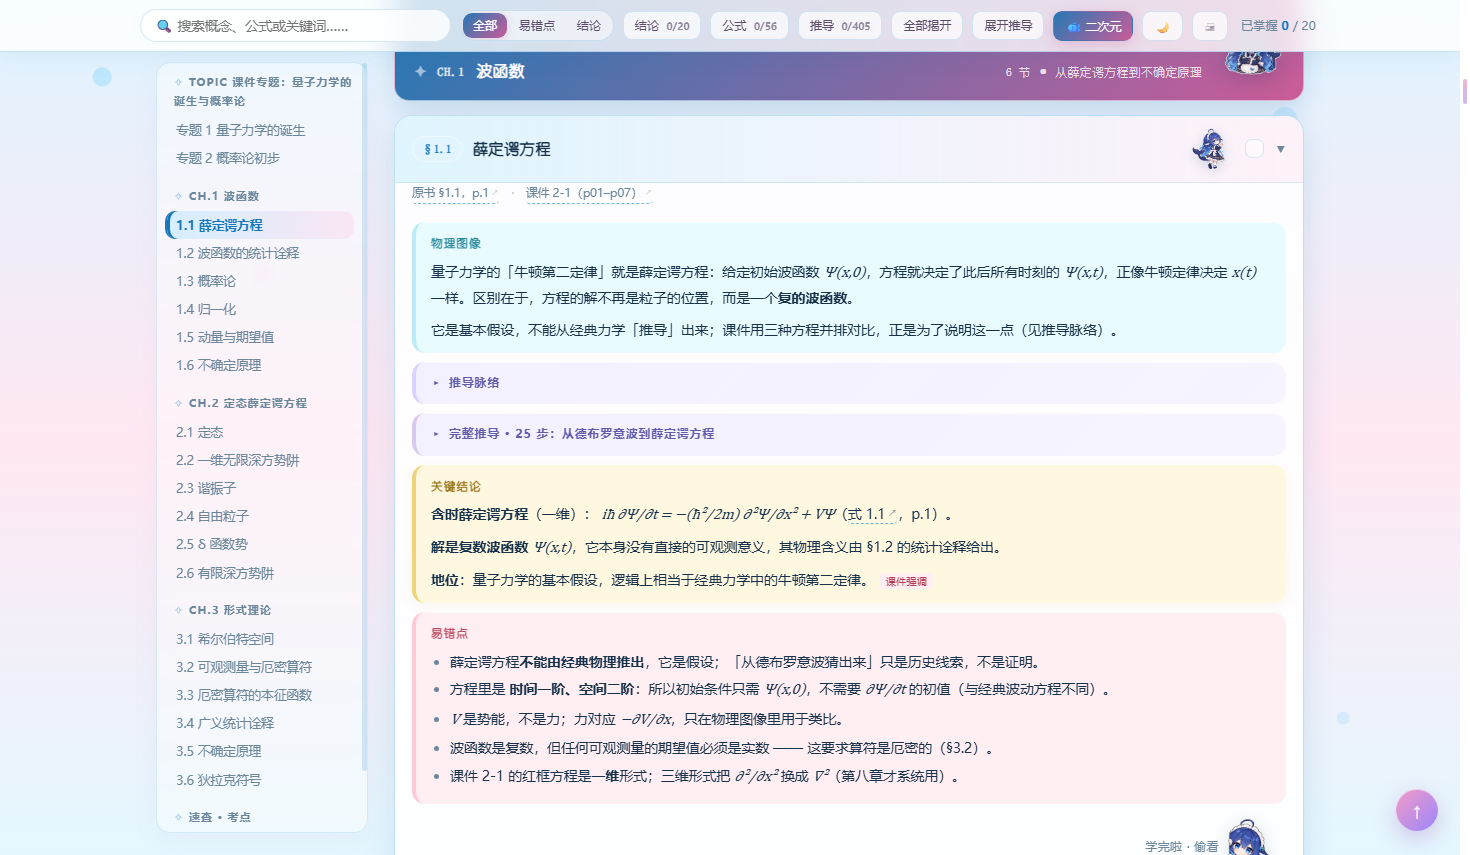
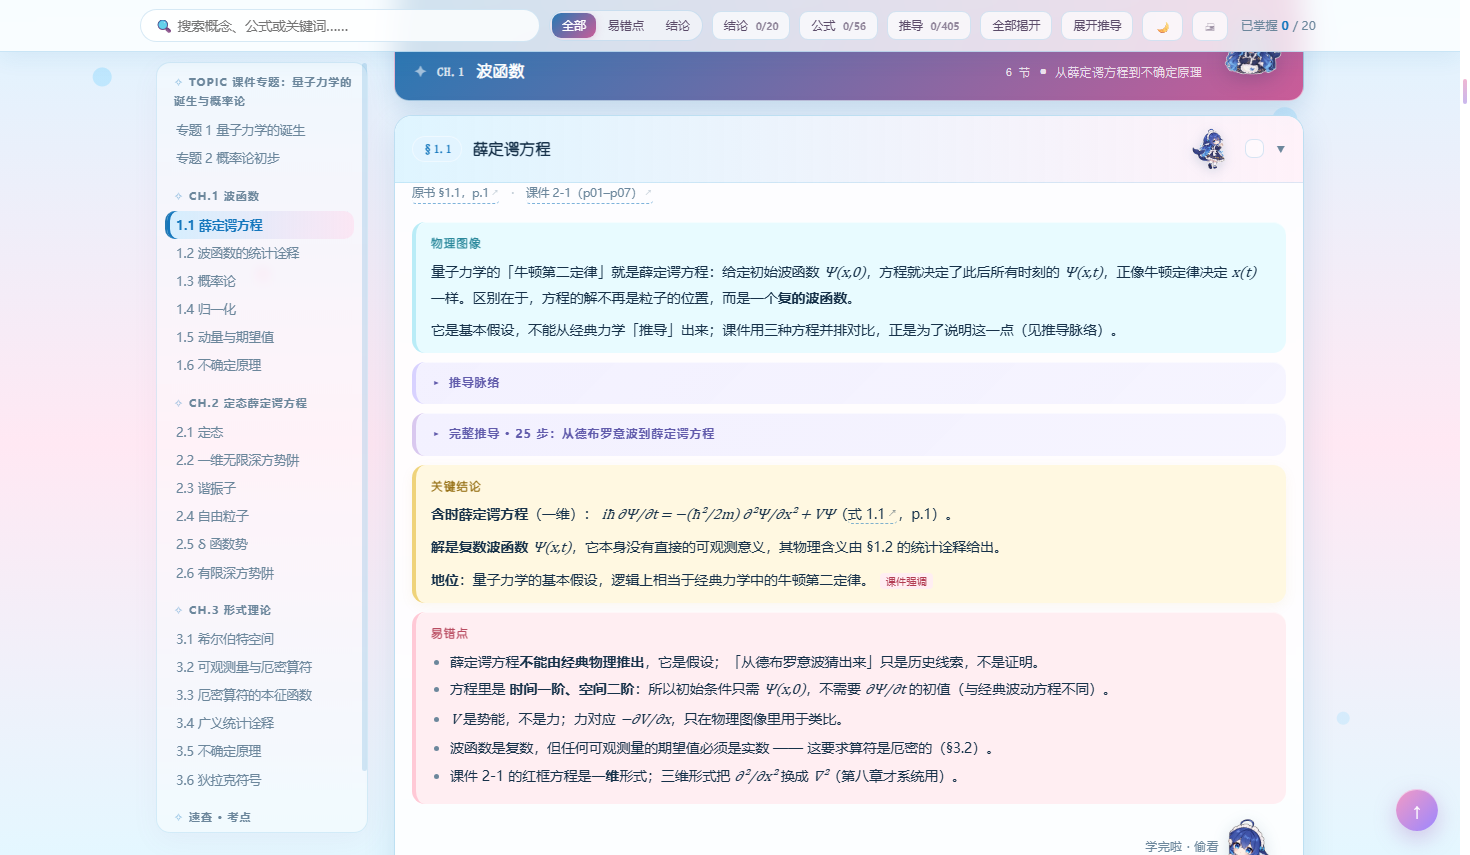
fix: remove anime theme toggle

diff --git a/docs/app/renderer/outline_qm.html b/docs/app/renderer/outline_qm.html
@@ -1264,7 +1264,6 @@ body:not(.anime) .mascot-lightbox { display:none !important; }
     <button class="btn maskbtn" id="bMaskS" onclick="toggleMaskMode('step')" title="遮住/揭示推导步骤（快捷键 R）">推导 <b>0/0</b></button>
     <button class="btn" id="bMaskAll" onclick="revealAllMasks()" title="全部揭开">全部揭开</button>
     <button class="btn" id="bFold" onclick="toggleAllDeriv()" title="展开/收起所有推导">展开推导</button>
-    <button class="btn" id="bAnime" onclick="toggleAnime()" title="开关二次元主题与表情包">🐟 二次元</button>
     <button class="btn" onclick="toggleDark()" title="切换深色模式（快捷键 D）">🌙</button>
     <button class="btn" onclick="window.print()" title="打印 / 导出 PDF">🖨</button>
     <span class="prog" id="prog"></span>
@@ -7751,22 +7750,6 @@ applyFilter();
     if (e.target === lb) closeLightbox();
   });
 
-  /* 二次元主题开关 */
-  const THEME_KEY = 'outline.anime.v1';
-  function applyTheme(on) {
-    document.body.classList.toggle('anime', on);
-    const btn = document.getElementById('bAnime');
-    if (btn) btn.classList.toggle('on', on);
-  }
-  try {
-    if (localStorage.getItem(THEME_KEY) === '0') applyTheme(false);
-    else applyTheme(true);
-  } catch (err) { applyTheme(true); }
-  window.toggleAnime = function () {
-    const on = !document.body.classList.contains('anime');
-    applyTheme(on);
-    try { localStorage.setItem(THEME_KEY, on ? '1' : '0'); } catch (err) {}
-  };
 })();
 
 </script>

diff --git a/发布/网页版/app/renderer/outline_qm.html b/发布/网页版/app/renderer/outline_qm.html
@@ -1264,7 +1264,6 @@ body:not(.anime) .mascot-lightbox { display:none !important; }
     <button class="btn maskbtn" id="bMaskS" onclick="toggleMaskMode('step')" title="遮住/揭示推导步骤（快捷键 R）">推导 <b>0/0</b></button>
     <button class="btn" id="bMaskAll" onclick="revealAllMasks()" title="全部揭开">全部揭开</button>
     <button class="btn" id="bFold" onclick="toggleAllDeriv()" title="展开/收起所有推导">展开推导</button>
-    <button class="btn" id="bAnime" onclick="toggleAnime()" title="开关二次元主题与表情包">🐟 二次元</button>
     <button class="btn" onclick="toggleDark()" title="切换深色模式（快捷键 D）">🌙</button>
     <button class="btn" onclick="window.print()" title="打印 / 导出 PDF">🖨</button>
     <span class="prog" id="prog"></span>
@@ -7751,22 +7750,6 @@ applyFilter();
     if (e.target === lb) closeLightbox();
   });
 
-  /* 二次元主题开关 */
-  const THEME_KEY = 'outline.anime.v1';
-  function applyTheme(on) {
-    document.body.classList.toggle('anime', on);
-    const btn = document.getElementById('bAnime');
-    if (btn) btn.classList.toggle('on', on);
-  }
-  try {
-    if (localStorage.getItem(THEME_KEY) === '0') applyTheme(false);
-    else applyTheme(true);
-  } catch (err) { applyTheme(true); }
-  window.toggleAnime = function () {
-    const on = !document.body.classList.contains('anime');
-    applyTheme(on);
-    try { localStorage.setItem(THEME_KEY, on ? '1' : '0'); } catch (err) {}
-  };
 })();
 
 </script>

diff --git a/程序/resources/app/renderer/outline_qm.html b/程序/resources/app/renderer/outline_qm.html
@@ -1264,7 +1264,6 @@ body:not(.anime) .mascot-lightbox { display:none !important; }
     <button class="btn maskbtn" id="bMaskS" onclick="toggleMaskMode('step')" title="遮住/揭示推导步骤（快捷键 R）">推导 <b>0/0</b></button>
     <button class="btn" id="bMaskAll" onclick="revealAllMasks()" title="全部揭开">全部揭开</button>
     <button class="btn" id="bFold" onclick="toggleAllDeriv()" title="展开/收起所有推导">展开推导</button>
-    <button class="btn" id="bAnime" onclick="toggleAnime()" title="开关二次元主题与表情包">🐟 二次元</button>
     <button class="btn" onclick="toggleDark()" title="切换深色模式（快捷键 D）">🌙</button>
     <button class="btn" onclick="window.print()" title="打印 / 导出 PDF">🖨</button>
     <span class="prog" id="prog"></span>
@@ -7751,22 +7750,6 @@ applyFilter();
     if (e.target === lb) closeLightbox();
   });
 
-  /* 二次元主题开关 */
-  const THEME_KEY = 'outline.anime.v1';
-  function applyTheme(on) {
-    document.body.classList.toggle('anime', on);
-    const btn = document.getElementById('bAnime');
-    if (btn) btn.classList.toggle('on', on);
-  }
-  try {
-    if (localStorage.getItem(THEME_KEY) === '0') applyTheme(false);
-    else applyTheme(true);
-  } catch (err) { applyTheme(true); }
-  window.toggleAnime = function () {
-    const on = !document.body.classList.contains('anime');
-    applyTheme(on);
-    try { localStorage.setItem(THEME_KEY, on ? '1' : '0'); } catch (err) {}
-  };
 })();
 
 </script>

diff --git a/docs/app/renderer/outline_thermo.html b/docs/app/renderer/outline_thermo.html
@@ -752,7 +752,6 @@ body:not(.anime) .mascot-lightbox { display:none !important; }
     <button class="btn maskbtn" id="bMaskS" onclick="toggleMaskMode('step')" title="遮住/揭示推导步骤（快捷键 R）">推导 <b>0/0</b></button>
     <button class="btn" id="bMaskAll" onclick="revealAllMasks()" title="全部揭开">全部揭开</button>
     <button class="btn" id="bFold" onclick="toggleAllDeriv()" title="展开/收起所有推导">展开推导</button>
-    <button class="btn" id="bAnime" onclick="toggleAnime()" title="开关二次元主题与表情包">🐟 二次元</button>
     <button class="btn" onclick="toggleDark()" title="切换深色模式（快捷键 D）">🌙</button>
     <button class="btn" onclick="window.print()" title="打印 / 导出 PDF">🖨</button>
     <span class="prog" id="prog"></span>
@@ -8290,22 +8289,6 @@ applyFilter();
     if (e.target === lb) closeLightbox();
   });
 
-  /* 二次元主题开关 */
-  const THEME_KEY = 'outline.anime.v1';
-  function applyTheme(on) {
-    document.body.classList.toggle('anime', on);
-    const btn = document.getElementById('bAnime');
-    if (btn) btn.classList.toggle('on', on);
-  }
-  try {
-    if (localStorage.getItem(THEME_KEY) === '0') applyTheme(false);
-    else applyTheme(true);
-  } catch (err) { applyTheme(true); }
-  window.toggleAnime = function () {
-    const on = !document.body.classList.contains('anime');
-    applyTheme(on);
-    try { localStorage.setItem(THEME_KEY, on ? '1' : '0'); } catch (err) {}
-  };
 })();
 
 </script>

diff --git a/发布/网页版/app/renderer/outline_thermo.html b/发布/网页版/app/renderer/outline_thermo.html
@@ -752,7 +752,6 @@ body:not(.anime) .mascot-lightbox { display:none !important; }
     <button class="btn maskbtn" id="bMaskS" onclick="toggleMaskMode('step')" title="遮住/揭示推导步骤（快捷键 R）">推导 <b>0/0</b></button>
     <button class="btn" id="bMaskAll" onclick="revealAllMasks()" title="全部揭开">全部揭开</button>
     <button class="btn" id="bFold" onclick="toggleAllDeriv()" title="展开/收起所有推导">展开推导</button>
-    <button class="btn" id="bAnime" onclick="toggleAnime()" title="开关二次元主题与表情包">🐟 二次元</button>
     <button class="btn" onclick="toggleDark()" title="切换深色模式（快捷键 D）">🌙</button>
     <button class="btn" onclick="window.print()" title="打印 / 导出 PDF">🖨</button>
     <span class="prog" id="prog"></span>
@@ -8290,22 +8289,6 @@ applyFilter();
     if (e.target === lb) closeLightbox();
   });
 
-  /* 二次元主题开关 */
-  const THEME_KEY = 'outline.anime.v1';
-  function applyTheme(on) {
-    document.body.classList.toggle('anime', on);
-    const btn = document.getElementById('bAnime');
-    if (btn) btn.classList.toggle('on', on);
-  }
-  try {
-    if (localStorage.getItem(THEME_KEY) === '0') applyTheme(false);
-    else applyTheme(true);
-  } catch (err) { applyTheme(true); }
-  window.toggleAnime = function () {
-    const on = !document.body.classList.contains('anime');
-    applyTheme(on);
-    try { localStorage.setItem(THEME_KEY, on ? '1' : '0'); } catch (err) {}
-  };
 })();
 
 </script>

diff --git a/程序/resources/app/renderer/outline_thermo.html b/程序/resources/app/renderer/outline_thermo.html
@@ -752,7 +752,6 @@ body:not(.anime) .mascot-lightbox { display:none !important; }
     <button class="btn maskbtn" id="bMaskS" onclick="toggleMaskMode('step')" title="遮住/揭示推导步骤（快捷键 R）">推导 <b>0/0</b></button>
     <button class="btn" id="bMaskAll" onclick="revealAllMasks()" title="全部揭开">全部揭开</button>
     <button class="btn" id="bFold" onclick="toggleAllDeriv()" title="展开/收起所有推导">展开推导</button>
-    <button class="btn" id="bAnime" onclick="toggleAnime()" title="开关二次元主题与表情包">🐟 二次元</button>
     <button class="btn" onclick="toggleDark()" title="切换深色模式（快捷键 D）">🌙</button>
     <button class="btn" onclick="window.print()" title="打印 / 导出 PDF">🖨</button>
     <span class="prog" id="prog"></span>
@@ -8290,22 +8289,6 @@ applyFilter();
     if (e.target === lb) closeLightbox();
   });
 
-  /* 二次元主题开关 */
-  const THEME_KEY = 'outline.anime.v1';
-  function applyTheme(on) {
-    document.body.classList.toggle('anime', on);
-    const btn = document.getElementById('bAnime');
-    if (btn) btn.classList.toggle('on', on);
-  }
-  try {
-    if (localStorage.getItem(THEME_KEY) === '0') applyTheme(false);
-    else applyTheme(true);
-  } catch (err) { applyTheme(true); }
-  window.toggleAnime = function () {
-    const on = !document.body.classList.contains('anime');
-    applyTheme(on);
-    try { localStorage.setItem(THEME_KEY, on ? '1' : '0'); } catch (err) {}
-  };
 })();
 
 </script>

diff --git a/README.md b/README.md
@@ -75,7 +75,7 @@
 - **完整推导**：56 张卡片全部补齐 20–40 步教材级推导，共 1125 步；每步标注依据/检查
 - **三套独立遮罩**：结论 / 公式 / 推导分别开关，支持单块 👁、点击恢复、计数和刷新记忆
 - **知识点弹卡**：151 个不同知识点可点击，弹卡内可跳提纲卡片或教材/讲义页
-- **二次元主题**：溟月表情包、章首大图、卡片右上角/结尾随读表情；支持悬停动效、点击放大和一键关闭
+- **二次元主题**：溟月表情包、章首大图、卡片右上角/结尾随读表情；支持悬停动效和点击放大
 - **完全离线**：不联网、不占端口、没有后端；在线版和单文件 HTML 都只是静态文件
 
 ## 数据规模
@@ -489,7 +489,7 @@ Star 只是收藏和扩散，不会解锁任何功能。不要买 Star 或到无
 
 - 56 张卡片全部补齐 20–40 步完整推导，共 1125 步
 - 三套独立遮罩、知识点弹卡、本地 KaTeX、点击高亮
-- 二次元主题与溟月表情包（可一键关闭）
+- 二次元主题与溟月表情包
 - 单文件 HTML 同步并内联 KaTeX，可离线双击打开
 
 ## 版权声明
